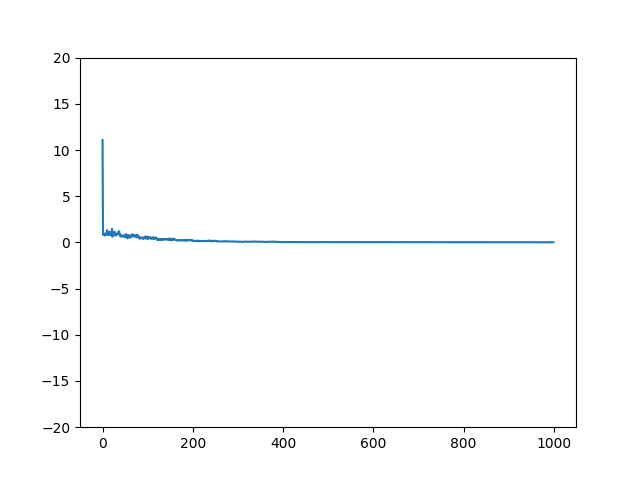
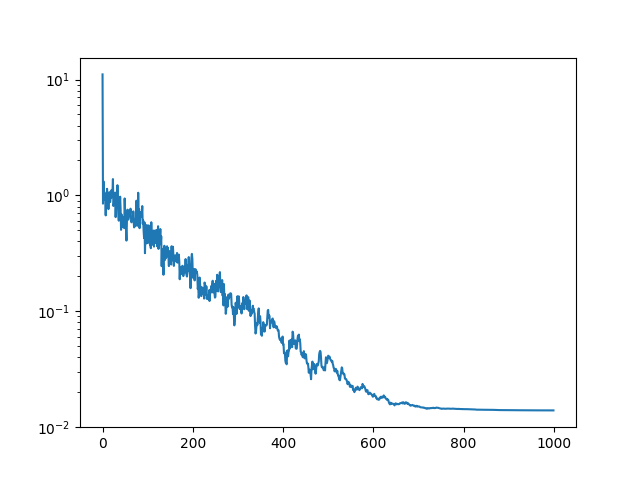
graphs

diff --git a/RLModels.py b/RLModels.py
@@ -92,8 +92,10 @@ class QTabularFedAvg():
             self.rng = default_rng(seed)
 
         self.runAgg = False
+        self.done = False
 
     def start(self, QLearnF=None, QLearningKWArgs=None):
+        self.done = False
         parr = [None] * self.P
         mpEnd = mp.Value(ctypes.c_bool, False)
         kwargs = QLearningKWArgs
@@ -107,11 +109,16 @@ class QTabularFedAvg():
         aggT.start()
 
         out = [self.returnQ.get()]
+        print(out)
+        # terminates aggregate
         self.Queue.put(None)
-        mpEnd.value = False
+        mpEnd.value = True
+
         for i in range(1, self.P):
             out.append(self.returnQ.get())
+            print(out[i])
 
+        self.done = True
 
         return out, self.aggs
 
@@ -122,9 +129,11 @@ class QTabularFedAvg():
             for i in range(self.P):
                 arr.append(self.Queue.get())
                 if arr[i] is None:
-                    return
+                    break
+            if arr[i] is None:
+                break
             # locked
-            # print("aggregating")
+            print("aggregating")
             self.aggs += 1
             self.q_tab = np.zeros(self.shape)
             for model in arr:
@@ -136,6 +145,15 @@ class QTabularFedAvg():
                 self.Queue.task_done()
             if not loop:
                 break
+
+        # prevents process hanging on join
+        while not self.done:
+            try:
+                temp = self.Queue.get(timeout=1)
+                self.Queue.task_done()
+            except:
+                temp = None
+
 
 
 

diff --git a/test.py b/test.py
@@ -42,7 +42,8 @@ def mdpTest():
     print("avg reward " + str(score))
 
     plt.plot(range(diffs.shape[0]), diffs)
-    plt.gca().set(ylim=(0, 1))
+    #plt.gca().set(ylim=(0, 1))
+    plt.yscale('log')
     plt.savefig("trainingMDP.png")
 
 
@@ -59,7 +60,7 @@ def mdpTestFed():
 
     kwArgs = utils.getArgs(env=env, model=model, eps=1, epLimit=100,
                            a=0.1, y=0.6, convN=100, convThresh=0.01, convMethod="compare", otherModel=modelBell, logging=True,
-                           syncB=-1, syncE=200)
+                           syncB=-1, syncE=100)
     print(kwArgs)
 
     federatedModel = RLModels.QTabularFedAvg(model.getW().shape, stochasticPolicy=True, p=10)
@@ -81,7 +82,8 @@ def mdpTestFed():
     print("avg reward " + str(score))
 
     plt.plot(range(diffs.shape[0]), diffs)
-    plt.gca().set(ylim=(0, 1))
+    # plt.gca().set(ylim=(0, 1))
+    plt.yscale('log')
     plt.savefig("trainingMDPFed.png")
 
 
@@ -144,3 +146,4 @@ def cartTest():
 
 if __name__ == '__main__':
     mdpTest()
+    mdpTestFed()

diff --git a/utils.py b/utils.py
@@ -1,5 +1,6 @@
 import numpy as np
 import random
+import time
 
 
 def softmax(x, axis=-1):
@@ -8,6 +9,7 @@ def softmax(x, axis=-1):
         return x / np.sum(x)
     x = np.exp(x - np.max(x, axis=axis, keepdims=True))
     return x / np.sum(x, axis=axis, keepdims=True)
+
 
 def getArgs(*args, **kwargs):
     all_args = {("arg" + str(idx + 1)): arg for idx, arg in enumerate(args)}
